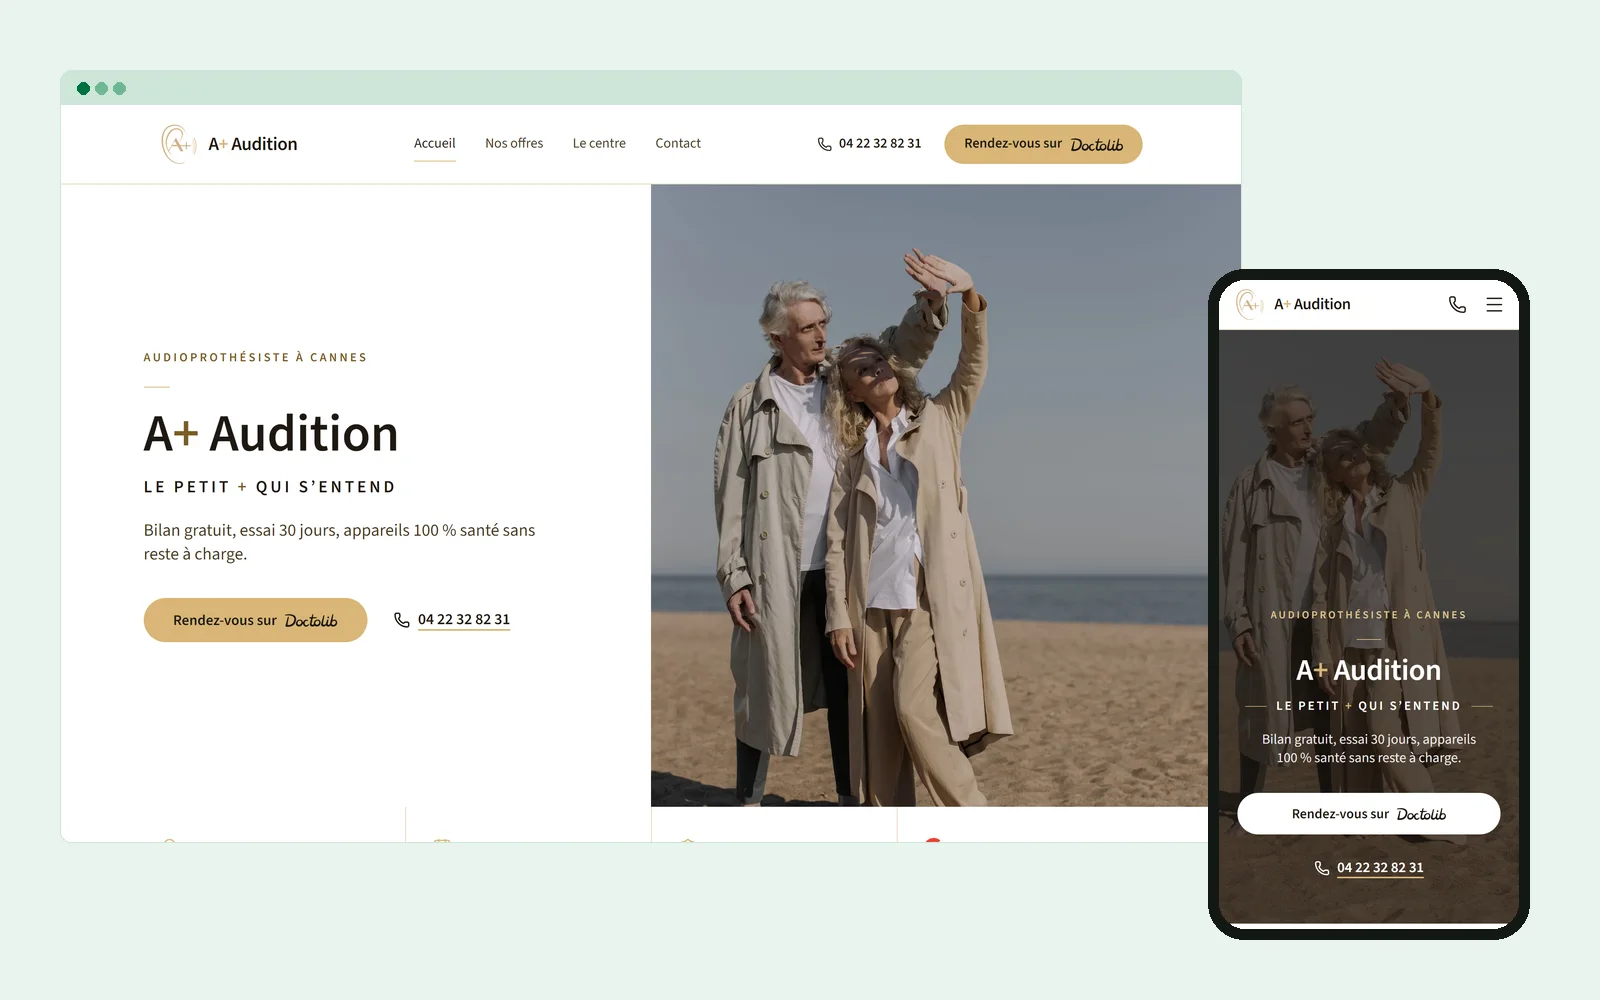
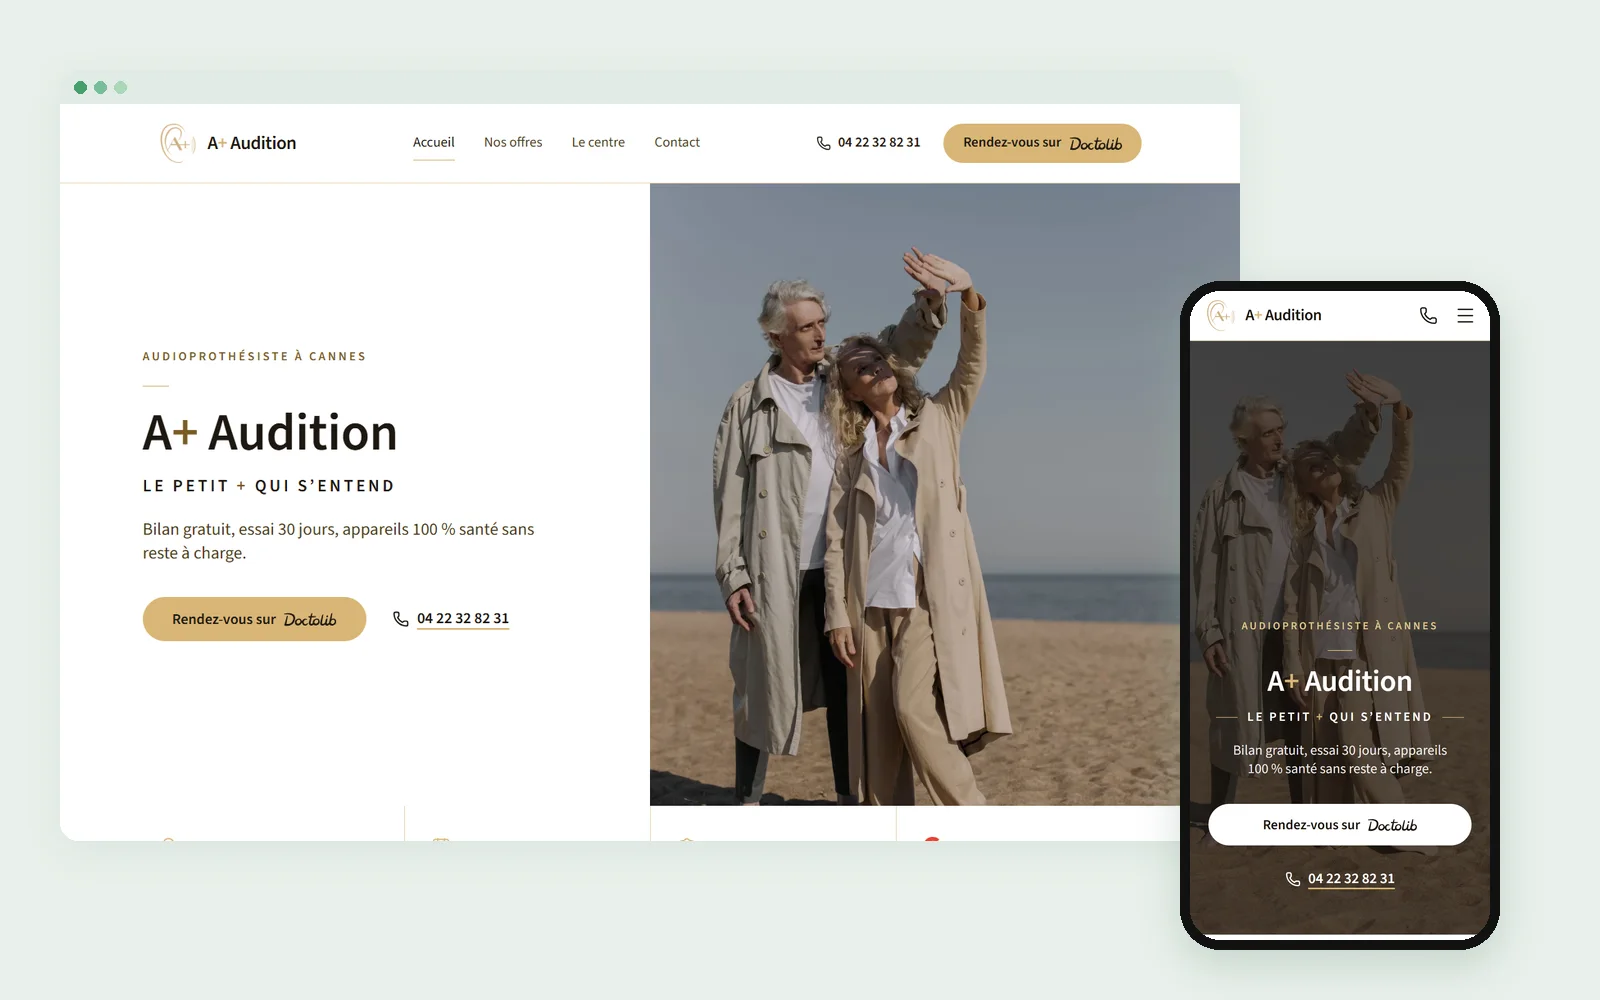
Maquettes des réalisations refaites depuis les sites en ligne (Clim69 v2, Mishpacha, A+ Audition), script scripts/maquettes-sites.py
Claude-Session: https://claude.ai/code/session_01YHmwYBKdsjWV5pRokqUWvZ

diff --git a/scripts/maquettes-sites.py b/scripts/maquettes-sites.py
@@ -1,0 +1,90 @@
+"""Maquettes des réalisations (cadre navigateur + téléphone sur fond pâle, 1600x1000) à partir des sites EN LIGNE.
+
+    python scripts/maquettes-sites.py        -> public/images/realisations/<id>-maquette.webp
+
+À relancer dès qu'un site client change (Moshé, 27/10 : « je vois encore l'image de Clim69 d'avant »).
+"""
+import asyncio, io, os
+from playwright.async_api import async_playwright
+from PIL import Image, ImageDraw, ImageFilter
+
+RACINE = os.path.abspath(os.path.join(os.path.dirname(__file__), '..'))
+SORTIE = os.path.join(RACINE, 'public', 'images', 'realisations')
+SITES = {'clim69': 'https://clim69.fr', 'mishpacha-tours': 'https://mishpachatours.com', 'aplusaudition': 'https://aplusaudition.fr'}
+CACHE_COOKIES = """
+[id*=cookie i],[class*=cookie i],[id*=consent i],[class*=consent i],[aria-label*=cookie i],#axeptio_overlay,.cky-consent-container{display:none!important}
+"""
+
+
+async def capture(pg, url, w, h, scale):
+    await pg.set_viewport_size({'width': w, 'height': h})
+    await pg.goto(url, wait_until='networkidle', timeout=60000)
+    # bandeaux de cookies des sites clients : on refuse, comme un visiteur
+    for texte in ['Continuer sans accepter', 'Tout refuser', 'Refuser', 'REFUSE', 'Refuse', 'Decline']:
+        try:
+            await pg.get_by_role('button', name=texte, exact=True).first.click(timeout=800); break
+        except Exception:
+            try:
+                await pg.get_by_text(texte, exact=True).first.click(timeout=500); break
+            except Exception:
+                pass
+    await pg.add_style_tag(content=CACHE_COOKIES)
+    await pg.wait_for_timeout(2500)
+    # filet de sécurité : tout bloc fixe qui parle de cookies, d'audience ou de consentement disparaît
+    await pg.evaluate("""() => { for (const el of document.querySelectorAll('body *')) {
+      const cs = getComputedStyle(el);
+      if ((cs.position === 'fixed' || cs.position === 'sticky') && /cookie|consent|audience|accepter|accord/i.test(el.innerText || '') && el.innerText.length < 600) el.style.display = 'none' } }""")
+    await pg.wait_for_timeout(300)
+    return Image.open(io.BytesIO(await pg.screenshot())).convert('RGB')
+
+
+def arrondi(im, r):
+    m = Image.new('L', im.size, 0); ImageDraw.Draw(m).rounded_rectangle((0, 0, im.width - 1, im.height - 1), r, fill=255)
+    return m
+
+
+def composer(bureau, tel):
+    W, H = 1600, 1000
+    fond = Image.new('RGB', (W, H), (232, 240, 234))
+    # navigateur : barre à trois points + capture 1440x900 réduite à 1180 de large
+    bw = 1180; bh = int(bureau.height * bw / bureau.width)
+    nav = Image.new('RGB', (bw, bh + 34), 'white'); d = ImageDraw.Draw(nav)
+    d.rectangle((0, 0, bw, 34), fill=(225, 235, 228))
+    for i, c in enumerate([(70, 160, 110), (120, 190, 150), (170, 215, 185)]):
+        d.ellipse((14 + i * 20, 11, 26 + i * 20, 23), fill=c)
+    nav.paste(bureau.resize((bw, bh), Image.LANCZOS), (0, 34))
+    x0, y0 = 60, 70
+    ombre = Image.new('L', (W, H), 0); ImageDraw.Draw(ombre).rounded_rectangle((x0, y0 + 10, x0 + bw, y0 + 10 + nav.height), 18, fill=70)
+    fond.paste((180, 200, 188), (0, 0), ombre.filter(ImageFilter.GaussianBlur(18)))
+    fond.paste(nav, (x0, y0), arrondi(nav, 18))
+    # téléphone : capture 390x844 dans un cadre noir arrondi
+    tw = 300; th = int(tel.height * tw / tel.width)
+    cadre = Image.new('RGB', (tw + 20, th + 20), (17, 17, 17))
+    ecran = tel.resize((tw, th), Image.LANCZOS)
+    cadre.paste(ecran, (10, 10), arrondi(ecran, 30))
+    tx, ty = W - tw - 120, H - th - 70
+    ombre = Image.new('L', (W, H), 0); ImageDraw.Draw(ombre).rounded_rectangle((tx, ty + 14, tx + cadre.width, ty + 14 + cadre.height), 40, fill=110)
+    fond.paste((150, 175, 160), (0, 0), ombre.filter(ImageFilter.GaussianBlur(20)))
+    fond.paste(cadre, (tx, ty), arrondi(cadre, 40))
+    return fond
+
+
+async def main():
+    async with async_playwright() as p:
+        b = await p.chromium.launch()
+        for nom, url in SITES.items():
+            pg = await b.new_page()
+            bureau = await capture(pg, url, 1440, 900, 1)
+            await pg.close()
+            c = await b.new_context(viewport={'width': 390, 'height': 844}, device_scale_factor=2, is_mobile=True, has_touch=True)
+            pt = await c.new_page()
+            tel = await capture(pt, url, 390, 844, 2)
+            await c.close()
+            out = os.path.join(SORTIE, f'{nom}-maquette.webp')
+            composer(bureau, tel).save(out, quality=84)
+            if nom == 'clim69':  # étape « Aujourd'hui » du journal de l'étude de cas : le site tel qu'il est
+                bureau.save(os.path.join(SORTIE, 'clim69.webp'), quality=84)
+            print(out)
+        await b.close()
+
+asyncio.run(main())
